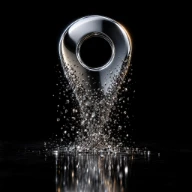
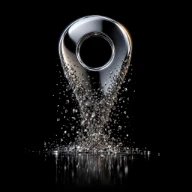
What it costs you: cost-1 and cost-2 swap rows; the images molded in
The pin leads "They cannot find you", the phone "Not enough are calling".
costprep.mjs rebuilds the four WebPs with a toe to black and an edge
feather, so the renders' haze and floor reflections no longer cut a square
under the screen blend: costseam.mjs puts every box edge under 3 levels
(it was 13 to 204). No yellow reads olive.

Changed region(s): [[0.2812, 0.8125, 0.6875, 1.0]]

diff --git a/src/components/home/Failures.jsx b/src/components/home/Failures.jsx
@@ -15,7 +15,9 @@ import './Failures.css';
 
    Four rows on the ground, no band: each a 96px 1:1 image slot on the left
    (`/assets/cost-1.webp` to `cost-4.webp`, supplied by the founder) and the
-   statement and consequence on the right. The Phosphor icons came off. A slot
+   statement and consequence on the right. The Phosphor icons came off.
+   cost-1 and cost-2 swapped rows by the founder, 2026-09-22: the pin is on
+   "They cannot find you", the phone on "Not enough are calling". A slot
    is empty and takes no space until its file exists, so a row with no image
    yet is the text alone. */
 const FAILURES = [
@@ -23,13 +25,13 @@ const FAILURES = [
     id: 'find',
     statement: 'They cannot find you',
     consequence: 'No online presence, so the search that should have found you finds nobody.',
-    image: '/assets/cost-1.webp',
+    image: '/assets/cost-2.webp',
   },
   {
     id: 'call',
     statement: 'Not enough are calling',
     consequence: 'The marketing budget goes out every month and the leads do not come back.',
-    image: '/assets/cost-2.webp',
+    image: '/assets/cost-1.webp',
   },
   {
     id: 'miss',

diff --git a/src/components/home/Failures.css b/src/components/home/Failures.css
@@ -46,7 +46,8 @@
 }
 
 /* The founder's cost-1 to cost-4, 2026-09-22: rendered on pure black and
-   exported at 192px square (2x the slot). Screen drops the black into the
+   exported at 192px square (2x the slot), molded by .measure/costprep.mjs
+   (a toe to black and an edge feather). Screen drops the black into the
    drift under the row, so only the drawing stands on the ground. */
 .fail__img .slot__img {
   mix-blend-mode: screen;
